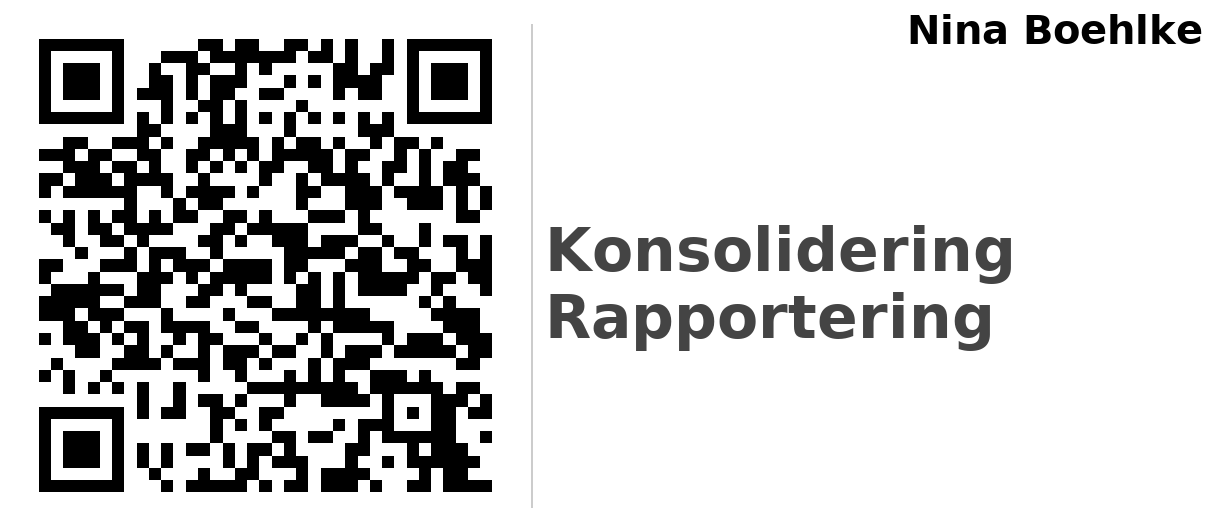
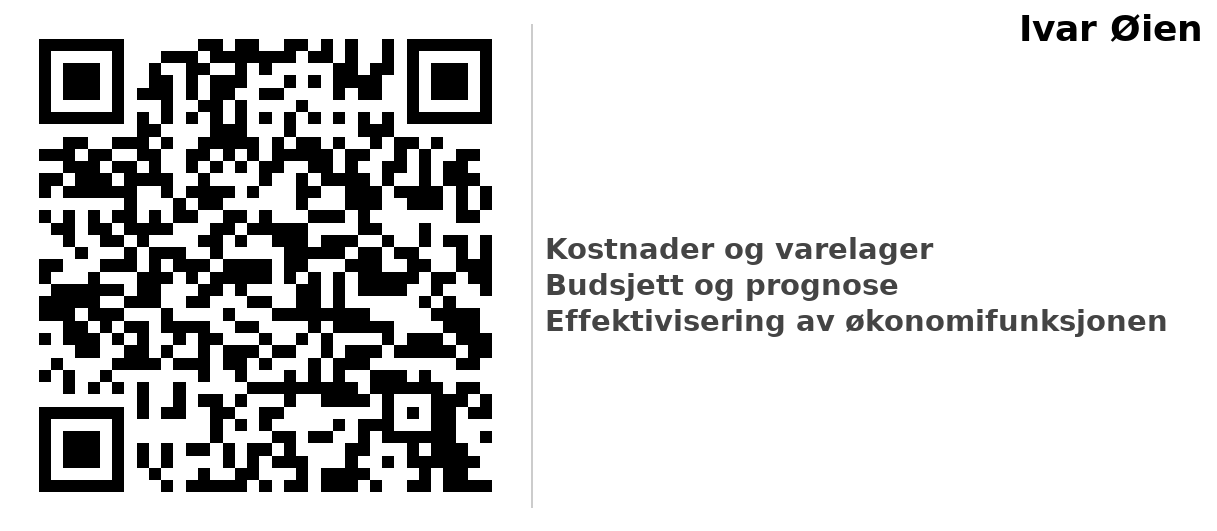
bigger text and animation only moves label

Changed region(s): [[0.4371, 0.4218, 0.968, 0.6629], [0.7494, 0.0301, 0.9992, 0.0904]]

diff --git a/server/static/web/assets/index-Bo0jV9Qs.css b/server/static/web/assets/index-Bo0jV9Qs.css
@@ -1,0 +1,1 @@
+@import"https://fonts.googleapis.com/css2?family=DM+Sans:ital,opsz,wght@0,9..40,400;0,9..40,500;0,9..40,700&display=swap";:root{--purple: #4D1D82;--purple-light: #8C1D82;--purple-bg: #2a0e4a;--purple-dark: #1a0830;--purple-warm: #8C1D82;--beige: #ece1d4;--red: #CF022B;--orange: #F07D00;--grey: #a7a7a6;--light-grey: rgba(255, 255, 255, .15);--black: #1c1c1a;--pink: #EA5599;--bg: var(--purple-dark);--text: #ffffff;--text-secondary: rgba(255, 255, 255, .7);--muted: rgba(255, 255, 255, .6);--accent: var(--purple);--accent-active: #3a1566;--success: var(--red);--surface: rgba(255, 255, 255, .08);--surface-solid: rgba(255, 255, 255, .12);--radius: 12px;--shadow: 0 2px 12px rgba(0, 0, 0, .3);--shadow-lg: 0 4px 20px rgba(0, 0, 0, .4)}*,*:before,*:after{box-sizing:border-box;margin:0;padding:0}html,body{width:100%;height:100%;overflow:hidden;touch-action:none;-webkit-tap-highlight-color:transparent;font-family:DM Sans,system-ui,-apple-system,sans-serif;background:var(--purple-dark);background-image:radial-gradient(ellipse 80% 60% at 55% 50%,rgba(140,29,130,.45) 0%,transparent 70%),radial-gradient(ellipse 50% 50% at 80% 30%,rgba(200,80,180,.3) 0%,transparent 60%),radial-gradient(ellipse 60% 40% at 20% 70%,rgba(77,29,130,.5) 0%,transparent 60%),radial-gradient(ellipse 90% 80% at 40% 60%,rgba(160,50,160,.2) 0%,transparent 70%),linear-gradient(160deg,#1a0830,#2a0e4a,#4d1d82 60%,#2a0e4a);color:var(--text)}#root{width:100%;height:100%}.app{width:100%;height:100%;display:flex;flex-direction:column}.screen{flex:1;width:100%;height:100%;display:flex;flex-direction:column;padding:2.5rem}.screen.center{align-items:center;justify-content:center;gap:1.75rem;text-align:center}.title{font-size:2.8rem;font-weight:700;color:#fff;line-height:1.3}.subtitle{font-size:1.4rem;font-weight:500;color:var(--text-secondary);line-height:1.6}h2{font-size:2rem;font-weight:700;color:#fff;line-height:1.4}.btn-primary,.btn-secondary,.btn-capture,.btn-start,.btn-cancel{border:none;border-radius:var(--radius);font-family:DM Sans,system-ui,sans-serif;font-weight:700;cursor:pointer;transition:transform .1s,box-shadow .15s,background .15s;line-height:1.5;letter-spacing:.3px;-webkit-backdrop-filter:blur(8px);backdrop-filter:blur(8px)}.btn-primary:active:not(:disabled),.btn-secondary:active:not(:disabled),.btn-capture:active:not(:disabled),.btn-start:active:not(:disabled),.btn-cancel:active:not(:disabled){transform:translateY(2px)}.btn-primary:disabled,.btn-secondary:disabled,.btn-capture:disabled,.btn-start:disabled,.btn-cancel:disabled{opacity:.45;cursor:default}.btn-primary{background:var(--purple-light);color:#fff;padding:1.1rem 2.5rem;font-size:1.2rem;min-width:180px;box-shadow:0 2px 12px #8c1d8266}.btn-primary:hover:not(:disabled){background:#6e1568;box-shadow:0 4px 20px #8c1d8280}.btn-secondary{background:var(--surface);color:#fff;padding:1.1rem 2rem;font-size:1.1rem;border:1px solid rgba(255,255,255,.2)}.btn-secondary:hover:not(:disabled){background:var(--surface-solid)}.btn-start{background:var(--red);color:#fff;padding:1.25rem 3.5rem;font-size:1.3rem;box-shadow:var(--shadow)}.btn-start:hover:not(:disabled){background:#a00224;box-shadow:var(--shadow-lg)}.btn-capture{background:var(--red);color:#fff;padding:1.15rem 3rem;font-size:1.2rem;box-shadow:var(--shadow)}.btn-capture:hover:not(:disabled){background:#a00224;box-shadow:var(--shadow-lg)}.btn-cancel{background:var(--surface);color:#fff;padding:1.1rem 2rem;font-size:1.1rem;border:1px solid rgba(255,255,255,.2)}.btn-cancel:hover:not(:disabled){background:var(--surface-solid)}.btn-row{display:flex;gap:1rem;flex-wrap:wrap;justify-content:center}.error{color:#f99;background:#cf022b33;padding:1rem 1.5rem;font-size:1.1rem;font-weight:500;line-height:1.5;max-width:450px;border-radius:var(--radius);border:1px solid rgba(207,2,43,.4)}.start-screen{position:relative;align-items:center;justify-content:center;overflow:hidden}.start-content{position:relative;z-index:2;display:flex;flex-direction:column;align-items:center;gap:2rem;text-align:center}.start-logo{width:min(480px,80vw)}.preview-screen{align-items:center;justify-content:center;gap:2rem}.camera-hint{font-size:1.3rem;font-weight:500;color:var(--text-secondary);line-height:1.6}.camera-circle{position:relative;width:min(60vw,60vh);height:min(60vw,60vh);border-radius:50%;overflow:hidden;box-shadow:0 0 0 4px #8c1d8299,0 0 30px #8c1d824d}.ring-light-overlay{position:fixed;top:0;right:0;bottom:0;left:0;pointer-events:none;z-index:100;animation:ring-pulse 1s ease-in-out infinite}.ring-light-overlay:before{content:"";position:absolute;top:0;right:0;bottom:0;left:0;background:radial-gradient(ellipse at center,transparent 25%,color(display-p3 1 1 1 / .6) 55%,color(display-p3 1 1 1 / .95) 75%,color(display-p3 1 1 1) 100%)}.ring-light-overlay:after{content:"";position:absolute;top:0;right:0;bottom:0;left:0;backdrop-filter:brightness(6);-webkit-backdrop-filter:brightness(6);-webkit-mask-image:radial-gradient(ellipse at center,transparent 28%,black 60%);mask-image:radial-gradient(ellipse at center,transparent 28%,black 60%)}@keyframes ring-pulse{0%,to{opacity:1}50%{opacity:.9}}.camera-video{position:absolute;top:0;right:0;bottom:0;left:0;width:100%;height:100%;object-fit:cover;transform:scaleX(-1)}.countdown{position:absolute;top:50%;left:50%;transform:translate(-50%,-50%);font-size:6rem;font-weight:700;color:#fff;text-shadow:0 3px 16px rgba(0,0,0,.5);z-index:10;-webkit-user-select:none;user-select:none}.capture-bar{position:relative;z-index:10;display:flex;align-items:center;gap:1rem}.validate-overlay{position:absolute;top:0;right:0;bottom:0;left:0;background:#00000073;display:flex;align-items:center;justify-content:center;z-index:5}.validate-text{font-size:1.2rem;font-weight:500;color:#fff;line-height:1.6;animation:pulse 1.2s ease-in-out infinite}@keyframes pulse{0%,to{opacity:1}50%{opacity:.4}}.review-photo{position:absolute;top:0;right:0;bottom:0;left:0;width:100%;height:100%;object-fit:cover;transform:scaleX(-1)}.spinner{width:64px;height:64px;border:5px solid rgba(255,255,255,.15);border-top-color:var(--pink);border-radius:50%;animation:spin .8s linear infinite}@keyframes spin{to{transform:rotate(360deg)}}.status-text{font-size:1.3rem;font-weight:500;color:#fff;line-height:1.6;max-width:450px;text-align:center}.status-sub{font-size:1.15rem;font-weight:500;color:var(--text-secondary);line-height:1.6}.reregister-notice{background:var(--surface);box-shadow:var(--shadow);border-radius:var(--radius);padding:1.25rem 1.5rem;text-align:center;border:1px solid rgba(255,255,255,.1);-webkit-backdrop-filter:blur(8px);backdrop-filter:blur(8px)}.reregister-notice p{font-size:1.15rem;font-weight:700;color:#fff;line-height:1.5}.reregister-sub{font-size:1rem!important;font-weight:500!important;color:var(--text-secondary)!important;margin-top:.25rem}.name-screen{justify-content:flex-start;padding-top:4rem}.name-form{display:flex;flex-direction:column;gap:1.5rem;align-items:center;width:100%;max-width:440px}.name-input{width:100%;padding:1.1rem 1.25rem;font-family:DM Sans,system-ui,sans-serif;font-size:1.2rem;line-height:1.5;border:1px solid rgba(255,255,255,.2);border-radius:var(--radius);background:var(--surface);color:#fff;outline:none;transition:border-color .15s;-webkit-backdrop-filter:blur(8px);backdrop-filter:blur(8px)}.name-input::placeholder{color:#fff6}.name-input:focus{border-color:var(--pink)}.consent-screen{text-align:left;max-width:600px;margin:0 auto}.consent-title{font-size:1.8rem;font-weight:700;color:#fff;line-height:1.3;margin:0}.consent-subtitle{font-size:1.1rem;color:var(--text-secondary);margin:0}.consent-voluntary{font-size:1rem;line-height:1.5;color:#ffc8c8d9;margin:0}.consent-card{border:1px solid rgba(255,255,255,.2);border-radius:var(--radius);padding:1.2rem}.consent-card h3{font-size:1.05rem;font-weight:700;color:#fff;margin-bottom:.4rem}.consent-card p{font-size:.95rem;color:var(--text-secondary);line-height:1.5;margin:0}.result-name{font-size:1.3rem;font-weight:500;color:var(--text-secondary);line-height:1.6}.result-image{max-width:min(400px,90vw);max-height:45vh;object-fit:contain;border-radius:var(--radius);box-shadow:var(--shadow-lg)}.result-hint{font-size:1.1rem;font-weight:500;color:var(--text-secondary);line-height:1.6}.q-progress{font-size:1.4rem;font-weight:700;color:var(--text-secondary);line-height:1.6}.q-text{font-size:1.8rem;font-weight:700;max-width:860px;line-height:1.5}.q-answers{display:grid;grid-template-columns:1fr 1fr;gap:1.25rem;width:100%;max-width:860px}.btn-answer{border:1px solid rgba(255,255,255,.2);border-radius:var(--radius);font-family:DM Sans,system-ui,sans-serif;font-weight:500;cursor:pointer;transition:transform .1s,background .15s,color .15s,border-color .15s;line-height:1.5;background:var(--surface);color:#fff;padding:1.5rem 1.25rem;font-size:1.25rem;text-align:center;box-shadow:var(--shadow);-webkit-backdrop-filter:blur(8px);backdrop-filter:blur(8px)}.btn-answer:active:not(:disabled){transform:translateY(2px)}.btn-answer:disabled{cursor:default}@media (hover: hover){.btn-answer:hover:not(:disabled){background:var(--surface-solid);border-color:#ffffff4d}}.answer-correct{background:#2e7d32!important;color:#fff!important;border-color:#2e7d32!important}.answer-wrong{background:#c62828!important;color:#fff!important;border-color:#c62828!important}.answer-dim{opacity:.35}.q-feedback{font-size:1.2rem;font-weight:700;color:var(--pink);line-height:1.6;margin-top:.5rem}.start-buttons{display:flex;gap:1rem;align-items:center}.name-list-wrap{width:100%;max-height:35vh;overflow-y:auto;background:var(--surface);border:1px solid rgba(255,255,255,.15);border-radius:var(--radius);box-shadow:var(--shadow);-webkit-backdrop-filter:blur(8px);backdrop-filter:blur(8px)}.name-list{list-style:none}.name-list-item{padding:1rem 1.25rem;cursor:pointer;font-size:1.15rem;color:#ffffffd9;border-bottom:1px solid rgba(255,255,255,.08);transition:background .1s}.name-list-item:last-child{border-bottom:none}.name-list-item:active{background:#ffffff1a}.name-list-selected{background:var(--purple-light)!important;color:#fff!important}.name-list-empty{padding:2rem 1rem;text-align:center;font-size:1.1rem;color:var(--text-secondary)}.name-help-text{margin:.75rem 0 0;font-size:1rem;color:var(--text-secondary);text-align:center}.qr-scanner-wrap{width:100%;max-width:400px;border-radius:var(--radius);overflow:hidden}.qr-scanner-wrap #qr-reader{border:none!important}.qr-scan-error{color:var(--red);font-size:1.1rem;font-weight:500}.result-interest{font-size:1.1rem;font-weight:500;color:var(--text-secondary);line-height:1.6}.interest-greeting{font-size:1.4rem;font-weight:500;color:var(--text-secondary);line-height:1.4}.interest-grid{display:grid;grid-template-columns:1fr 1fr;gap:1rem;width:100%;max-width:500px}.interest-selected{background:var(--purple-light)!important;color:#fff!important;border-color:var(--purple-light)!important}.done-screen{justify-content:flex-start;padding-top:3rem}.printer-anim{width:90%;max-width:500px;display:flex;flex-direction:column;align-items:center;height:230px;flex-shrink:0}.printer-slot{width:100%;height:10px;background:linear-gradient(180deg,#1a1a1a,#333 40%,#555,#333 60%,#1a1a1a);border-radius:4px;box-shadow:0 2px 8px #00000080;position:relative;z-index:2}.printer-paper{width:96%;overflow:hidden;clip-path:inset(0 0 100% 0)}.printer-paper.printing{animation:print-reveal 3s cubic-bezier(.15,.5,.35,1) forwards}@keyframes print-reveal{0%{clip-path:inset(0 0 100% 0);opacity:.6}10%{opacity:1}to{clip-path:inset(0 0 0% 0)}}.label-preview{width:100%;border-radius:0 0 var(--radius) var(--radius);overflow:hidden;box-shadow:0 4px 16px #0000004d}.label-preview-img{width:100%;height:auto;display:block}.demo-greeting{font-size:2.4rem;font-weight:700;color:#fff;line-height:1.3}.matched-avatar{width:min(160px,30vw);height:min(160px,30vw);object-fit:contain;margin-bottom:.5rem;border-radius:var(--radius)}.demo-options{display:flex;flex-direction:column;gap:1rem;width:100%;max-width:440px}.demo-selected{background:var(--purple-light)!important;color:#fff!important;border-color:var(--purple-light)!important}.recognize-eye{margin-bottom:1rem;filter:brightness(0) invert(1)}.recognize-failed{display:flex;flex-direction:column;align-items:center;gap:.5rem}.face-debug{display:flex;flex-direction:column;min-height:100dvh;padding:1rem;gap:1rem;background:#1a1a2e;color:#e0e0e0;font-family:SF Mono,Fira Code,Consolas,monospace;font-size:.85rem}.face-debug-header{display:flex;align-items:center;justify-content:space-between}.face-debug-header h2{margin:0;font-size:1.1rem;color:#fff}.face-debug-count{background:#333;padding:.25rem .75rem;border-radius:4px;font-size:.8rem}.face-debug-layout{display:flex;gap:1rem;flex:1;min-height:0}@media (max-width: 800px){.face-debug-layout{flex-direction:column}}.face-debug-camera-panel{flex:0 0 auto;display:flex;flex-direction:column;gap:.75rem}.face-debug-camera-wrap{width:min(280px,40vw);height:min(210px,30vw);border-radius:8px;overflow:hidden;background:#000;position:relative}.face-debug-video{position:absolute;top:0;right:0;bottom:0;left:0;width:100%;height:100%;object-fit:cover}.face-debug-controls{display:flex;flex-direction:column;gap:.75rem}.face-debug-enroll-form,.face-debug-recognize-form{display:flex;flex-direction:column;gap:.4rem}.face-debug input[type=text]{background:#2a2a3e;border:1px solid #444;color:#e0e0e0;padding:.4rem .6rem;border-radius:4px;font-family:inherit;font-size:.8rem}.face-debug input[type=text]:focus{outline:1px solid #6b9bd2}.face-debug button{background:#3a3a5e;border:1px solid #555;color:#e0e0e0;padding:.5rem .75rem;border-radius:4px;cursor:pointer;font-family:inherit;font-size:.8rem}.face-debug button:hover:not(:disabled){background:#4a4a7e}.face-debug button:disabled{opacity:.4;cursor:default}.face-debug-recognize-form label{display:flex;align-items:center;gap:.5rem;font-size:.8rem;color:#999}.face-debug-recognize-form input[type=range]{flex:1}.face-debug-log-panel{flex:1;display:flex;flex-direction:column;min-height:0;background:#0d0d1a;border-radius:8px;border:1px solid #333}.face-debug-log-header{display:flex;justify-content:space-between;align-items:center;padding:.5rem .75rem;border-bottom:1px solid #333;font-size:.75rem;color:#888}.face-debug-log-header button{background:none;border:none;color:#888;padding:.2rem .4rem;font-size:.7rem}.face-debug-log-area{flex:1;overflow-y:auto;padding:.5rem;display:flex;flex-direction:column;gap:.25rem}.face-debug-log-entry{border-left:3px solid #666;padding:.25rem .5rem;display:flex;flex-wrap:wrap;gap:.5rem;align-items:baseline}.face-debug-log-time{color:#555;font-size:.7rem;flex-shrink:0}.face-debug-log-text{font-size:.8rem}.face-debug-log-detail{width:100%;padding-top:.25rem}.face-debug-log-detail table{width:100%;border-collapse:collapse;font-size:.75rem}.face-debug-log-detail th,.face-debug-log-detail td{padding:.2rem .5rem;text-align:left;border-bottom:1px solid #222}.face-debug-log-detail th{color:#888}.face-debug-log-detail .score-match td{color:#4caf50;font-weight:600}.face-debug-users{border-top:1px solid #333;padding-top:.75rem}.face-debug-users h3{margin:0 0 .5rem;font-size:.9rem;color:#ccc}.face-debug-empty{color:#666;font-size:.8rem}.face-debug-user-list{display:flex;flex-wrap:wrap;gap:.5rem}.face-debug-user-card{display:flex;align-items:center;gap:.75rem;background:#2a2a3e;padding:.4rem .75rem;border-radius:4px;font-size:.8rem}.face-debug-user-card button{background:none;border:none;color:#ef5350;padding:.2rem;font-size:.7rem;cursor:pointer}.face-debug-interest{margin-left:.5rem;color:#888;font-size:.75rem}.face-debug-interest:before{content:"·  "}

diff --git a/server/static/web/index.html b/server/static/web/index.html
@@ -6,8 +6,8 @@
     <meta name="apple-mobile-web-app-capable" content="yes" />
     <meta name="apple-mobile-web-app-status-bar-style" content="black-translucent" />
     <title>Sopra Steria Pixel Booth</title>
-    <script type="module" crossorigin src="/booth/assets/index-wEM28eNC.js"></script>
-    <link rel="stylesheet" crossorigin href="/booth/assets/index-H-FXDNMH.css">
+    <script type="module" crossorigin src="/booth/assets/index-DyX8mSVW.js"></script>
+    <link rel="stylesheet" crossorigin href="/booth/assets/index-Bo0jV9Qs.css">
   </head>
   <body>
     <div id="root"></div>

diff --git a/web/src/App.css b/web/src/App.css
@@ -750,6 +750,8 @@ h2 {
   display: flex;
   flex-direction: column;
   align-items: center;
+  height: 230px;
+  flex-shrink: 0;
 }
 
 .printer-slot {
@@ -765,7 +767,7 @@ h2 {
 .printer-paper {
   width: 96%;
   overflow: hidden;
-  max-height: 0;
+  clip-path: inset(0 0 100% 0);
 }
 
 .printer-paper.printing {
@@ -774,14 +776,14 @@ h2 {
 
 @keyframes print-reveal {
   0% {
-    max-height: 0;
+    clip-path: inset(0 0 100% 0);
     opacity: 0.6;
   }
   10% {
     opacity: 1;
   }
   100% {
-    max-height: 400px;
+    clip-path: inset(0 0 0% 0);
   }
 }
 

diff --git a/server/main.py b/server/main.py
@@ -157,8 +157,8 @@ def _generate_label(user_name: str, interest: str, user_id: str) -> bytes:
     sep_x = PAD + qr_size + PAD
     draw.line([(sep_x, PAD + 10), (sep_x, _LABEL_H - PAD - 10)], fill="#cccccc", width=2)
 
-    # Name (top-right)
-    name_font_size = 56
+    # Name (top-right, smaller)
+    name_font_size = 36
     name_font = _find_font(name_font_size)
     while name_font_size > 12:
         name_font = _find_font(name_font_size)
@@ -181,7 +181,7 @@ def _generate_label(user_name: str, interest: str, user_id: str) -> bytes:
         line_count = len(items)
         line_spacing = 8
         available_h = interest_area_h - (line_count - 1) * line_spacing
-        interest_font_size = min(int(available_h / line_count * 0.85), 100)
+        interest_font_size = min(int(available_h / line_count * 0.85), 130)
         while interest_font_size > 10:
             interest_font = _find_font(interest_font_size)
             max_w = max(interest_font.getbbox(item)[2] - interest_font.getbbox(item)[0] for item in items)

diff --git a/printing.py b/printing.py
@@ -59,7 +59,7 @@ def composite_label(user_name: str, interest: str, user_id: str = "") -> Image.I
     draw.line([(sep_x, PAD + 10), (sep_x, content_h - PAD - 10)], fill="#cccccc", width=2)
 
     # Name (top-right aligned)
-    name_font_size = 40
+    name_font_size = 36
     name_font = _find_font(font_path, name_font_size)
     while name_font_size > 12:
         name_font = _find_font(font_path, name_font_size)
@@ -84,7 +84,7 @@ def composite_label(user_name: str, interest: str, user_id: str = "") -> Image.I
         line_count = len(items)
         line_spacing = 8
         available_h = interest_area_h - (line_count - 1) * line_spacing
-        interest_font_size = min(int(available_h / line_count * 0.85), 60)
+        interest_font_size = min(int(available_h / line_count * 0.85), 130)
 
         while interest_font_size > 10:
             interest_font = _find_font(font_path, interest_font_size)

diff --git a/mac_print_client.py b/mac_print_client.py
@@ -116,7 +116,7 @@ def composite_label(user_name: str, interest: str, user_id: str = "") -> Image.I
     draw.line([(sep_x, PAD + 10), (sep_x, content_h - PAD - 10)], fill="#cccccc", width=2)
 
     # Name (top-right aligned)
-    name_font_size = 40
+    name_font_size = 36
     try:
         name_font = _find_font(name_font_size)
         while name_font_size > 12:
@@ -144,7 +144,7 @@ def composite_label(user_name: str, interest: str, user_id: str = "") -> Image.I
         line_count = len(items)
         line_spacing = 8
         available_h = interest_area_h - (line_count - 1) * line_spacing
-        interest_font_size = min(int(available_h / line_count * 0.85), 60)
+        interest_font_size = min(int(available_h / line_count * 0.85), 130)
 
         while interest_font_size > 10:
             interest_font = _find_font(interest_font_size)
